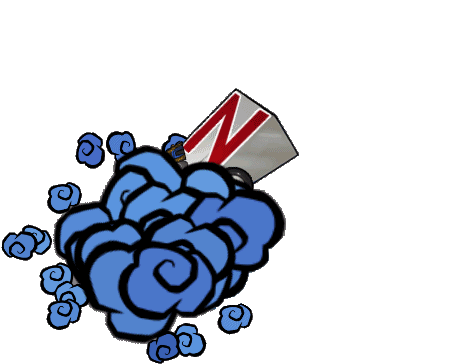
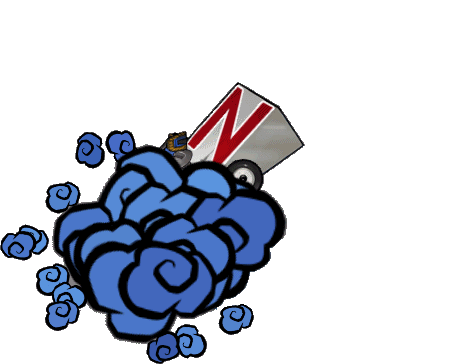
完善部分大喷菇素材

diff --git a/source/component/plant.py b/source/component/plant.py
@@ -278,8 +278,8 @@ class Plant(pg.sprite.Sprite):
         if not zombie.lostHead:
             self.health -= damage
         self.hit_timer = self.current_time
-        if (self.health == 0) or (self.name == c.HYPNOSHROOM and self.state != c.SLEEP):    # 魅惑菇触发同样会消失
-            self.kill_zombie = zombie
+        if (self.name == c.HYPNOSHROOM) and (self.state != c.SLEEP) and (zombie.name not in {"投石车僵尸（未实现）"}):
+            self.zombie_to_hypno = zombie
 
     def getPosition(self):
         return self.rect.centerx, self.rect.bottom
@@ -344,7 +344,7 @@ class PeaShooter(Plant):
         self.shoot_timer = 0
 
     def attacking(self):
-        if (self.current_time - self.shoot_timer) > 1400:
+        if (self.current_time - self.shoot_timer) >= 1400:
             self.bullet_group.add(Bullet(self.rect.right - 15, self.rect.y, self.rect.y,
                                          c.BULLET_PEA, c.BULLET_DAMAGE_NORMAL, effect=False))
             self.shoot_timer = self.current_time
@@ -361,7 +361,7 @@ class RepeaterPea(Plant):
         self.firstShot = False
 
     def attacking(self):
-        if (self.current_time - self.shoot_timer > 1400):
+        if (self.current_time - self.shoot_timer >= 1400):
             self.firstShot = True
             self.bullet_group.add(Bullet(self.rect.right - 15, self.rect.y, self.rect.y,
                                          c.BULLET_PEA, c.BULLET_DAMAGE_NORMAL, effect=False))
@@ -385,7 +385,7 @@ class ThreePeaShooter(Plant):
         self.background_type = background_type
 
     def attacking(self):
-        if (self.current_time - self.shoot_timer) > 1400:
+        if (self.current_time - self.shoot_timer) >= 1400:
             offset_y = 9  # modify bullet in the same y position with bullets of other plants
             for i in range(3):
                 tmp_y = self.map_y + (i - 1)
@@ -408,7 +408,7 @@ class SnowPeaShooter(Plant):
         self.shoot_timer = 0
 
     def attacking(self):
-        if (self.current_time - self.shoot_timer) > 1400:
+        if (self.current_time - self.shoot_timer) >= 1400:
             self.bullet_group.add(Bullet(self.rect.right  - 15, self.rect.y, self.rect.y,
                                          c.BULLET_PEA_ICE, c.BULLET_DAMAGE_NORMAL, effect=c.BULLET_EFFECT_ICE))
             self.shoot_timer = self.current_time
@@ -574,7 +574,7 @@ class PuffShroom(Plant):
         self.frames = self.idle_frames
 
     def attacking(self):
-        if (self.current_time - self.shoot_timer) > 1400:
+        if (self.current_time - self.shoot_timer) >= 1400:
             self.bullet_group.add(Bullet(self.rect.right, self.rect.y + 10, self.rect.y + 10,
                                          c.BULLET_MUSHROOM, c.BULLET_DAMAGE_NORMAL, effect=False))
             self.shoot_timer = self.current_time
@@ -731,7 +731,7 @@ class Spikeweed(Plant):
         self.state = c.ATTACK
 
     def attacking(self):
-        if (self.current_time - self.attack_timer) > 700:
+        if (self.current_time - self.attack_timer) >= 700:
             self.attack_timer = self.current_time
             for zombie in self.zombie_group:
                 if self.canAttack(zombie):
@@ -828,7 +828,7 @@ class ScaredyShroom(Plant):
         self.changeFrames(self.idle_frames)
 
     def attacking(self):
-        if (self.current_time - self.shoot_timer) > 1400:
+        if (self.current_time - self.shoot_timer) >= 1400:
             self.bullet_group.add(Bullet(self.rect.right - 15, self.rect.y + 40, self.rect.y + 40,
                                          c.BULLET_MUSHROOM, c.BULLET_DAMAGE_NORMAL, effect=False))
             self.shoot_timer = self.current_time
@@ -945,6 +945,7 @@ class HypnoShroom(Plant):
         Plant.__init__(self, x, y, c.HYPNOSHROOM, c.PLANT_HEALTH, None)
         self.can_sleep = True
         self.animate_interval = 80
+        self.zombie_to_hypno = None
 
     def loadImages(self, name, scale):
         self.idle_frames = []
@@ -962,8 +963,7 @@ class HypnoShroom(Plant):
         self.frames = self.idle_frames
     
     def idling(self):
-        # 现在没有投石车僵尸，所以暂时这样处理
-        if self.health < c.PLANT_HEALTH:
+        if self.health < c.PLANT_HEALTH and self.zombie_to_hypno:
             self.health = 0
 
 
@@ -1161,7 +1161,7 @@ class StarFruit(Plant):
         return False
 
     def attacking(self):
-        if (self.current_time - self.shoot_timer) > 1400:
+        if (self.current_time - self.shoot_timer) >= 1400:
             self.bullet_group.add(StarBullet(self.rect.left - 10, self.rect.y + 15, c.BULLET_DAMAGE_NORMAL, c.STAR_BACKWARD, self.level))
             self.bullet_group.add(StarBullet(self.rect.centerx - 20, self.rect.bottom - self.rect.h - 15, c.BULLET_DAMAGE_NORMAL, c.STAR_UPWARD, self.level))
             self.bullet_group.add(StarBullet(self.rect.centerx - 20, self.rect.bottom - 5, c.BULLET_DAMAGE_NORMAL, c.STAR_DOWNWARD, self.level))
@@ -1219,7 +1219,7 @@ class SeaShroom(Plant):
         self.frames = self.idle_frames
 
     def attacking(self):
-        if (self.current_time - self.shoot_timer) > 1400:
+        if (self.current_time - self.shoot_timer) >= 1400:
             self.bullet_group.add(Bullet(self.rect.right, self.rect.y + 50, self.rect.y + 50,
                                          c.BULLET_SEASHROOM, c.BULLET_DAMAGE_NORMAL, effect=False))
             self.shoot_timer = self.current_time
@@ -1474,3 +1474,32 @@ class GraveBuster(Plant):
             self.image.set_alpha(192)
         else:
             self.image.set_alpha(255)
+
+class FumeShroom(Plant):
+    def __init__(self, x, y, bullet_group):
+        Plant.__init__(self, x, y, c.FUMESHROOM, c.PLANT_HEALTH, bullet_group)
+        self.can_sleep = True
+        self.shoot_timer = 0
+
+    def loadImages(self, name, scale):
+        self.idle_frames = []
+        self.sleep_frames = []
+        self.attack_frames = []
+
+        idle_name = name
+        sleep_name = name + 'Sleep'
+        attack_name = name + 'Attack'
+
+        frame_list = [self.idle_frames, self.sleep_frames, self.attack_frames]
+        name_list = [idle_name, sleep_name, attack_name]
+
+        for i, name in enumerate(name_list):
+            self.loadFrames(frame_list[i], name, 1, c.WHITE)
+
+        self.frames = self.idle_frames
+
+    def canAttack(self, zombie):
+        if (self.rect.x <= zombie.rect.right and
+                (self.rect.x + c.GRID_X_SIZE * 4.5 >= zombie.rect.x) and (zombie.rect.left <= c.SCREEN_WIDTH + 10)):
+            return True
+        return False

diff --git a/source/state/level.py b/source/state/level.py
@@ -1149,7 +1149,7 @@ class Level(tool.State):
             elif targetPlant.name == c.ICESHROOM and targetPlant.state != c.SLEEP:
                 self.freezeZombies(targetPlant)
             elif targetPlant.name == c.HYPNOSHROOM and targetPlant.state != c.SLEEP:
-                zombie = targetPlant.kill_zombie
+                zombie = targetPlant.zombie_to_hypno
                 zombie.setHypno()
                 _, map_y = self.map.getMapIndex(zombie.rect.centerx, zombie.rect.bottom)
                 self.zombie_groups[map_y].remove(zombie)

diff --git a/source/constants.py b/source/constants.py
@@ -1,5 +1,5 @@
 # 冒险模式起始关卡
-START_LEVEL_NUM = 1
+START_LEVEL_NUM = 0
 # 小游戏模式起始关卡
 START_LITTLE_GAME_NUM = 1
 
@@ -216,6 +216,7 @@ ICE_FROZEN_PLOT = 'IceFrozenPlot'
 HOLE = 'Hole'
 GRAVE = 'Grave'
 GRAVEBUSTER = 'GraveBuster'
+FUMESHROOM = 'FumeShroom'
 
 
 # 植物生命值
@@ -268,6 +269,7 @@ CARD_TALLNUT = 'card_tallnut'
 CARD_TANGLEKLEP = 'card_tangleklep'
 CARD_DOOMSHROOM = 'card_doomshroom'
 CARD_GRAVEBUSTER = 'card_gravebuster'
+CARD_FUMESHROOM = 'card_fumeshroom'
 
 # 子弹信息
 # 子弹类型
